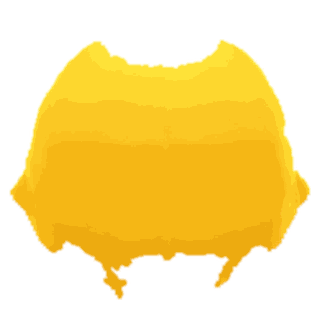
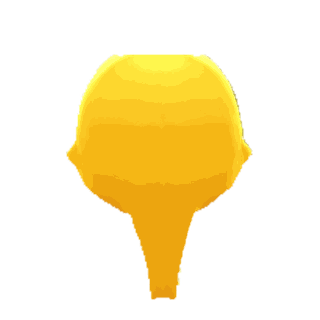
スエゾーの歩行アニメを作り直し(一本足が消える不具合を修正)
k-means背景除去とモルフォロジー処理でスエゾーの細い一本足や体が
欠けていたため、単一背景色ノックアウト+open無しの処理に変更。
目玉から足先まで全体が各コマで欠けないようにした。

Claude-Session: https://claude.ai/code/session_016p5FL5oTzveDV2BKXJikzH

Changed region(s): [[0.0312, 0.125, 0.9688, 0.9375]]

diff --git a/sw.js b/sw.js
@@ -1,7 +1,7 @@
 // ファイルを更新するたびに、このバージョン番号を必ず上げてください。
 // (例: v2 -> v3 -> v4 ...) 番号を上げないと、ユーザーの端末に古いキャッシュが
 // 残り続け、更新した内容が反映されません。
-const CACHE_NAME = 'aramon-cache-v280';
+const CACHE_NAME = 'aramon-cache-v281';
 const CORE_ASSETS = [
   './',
   './index.html',
